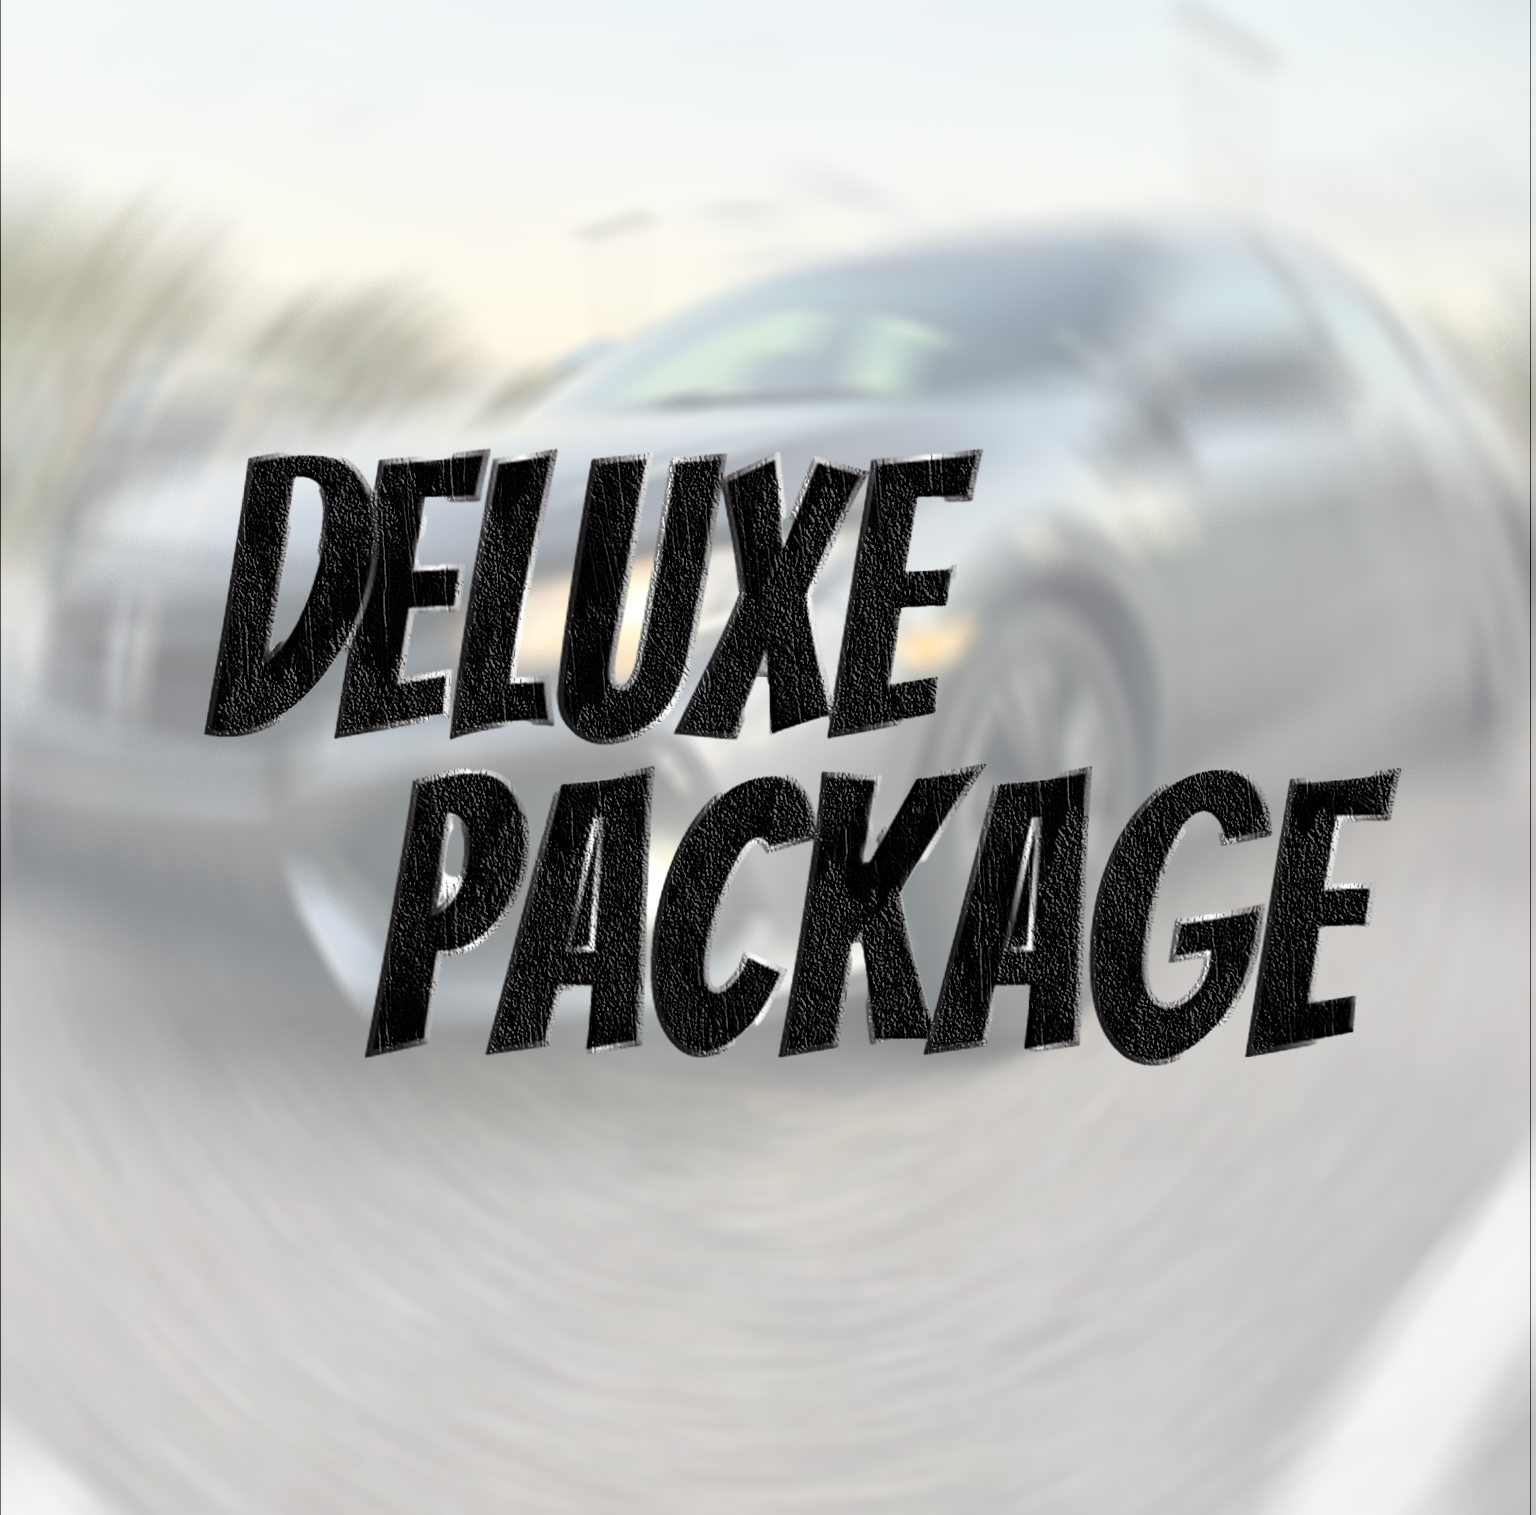
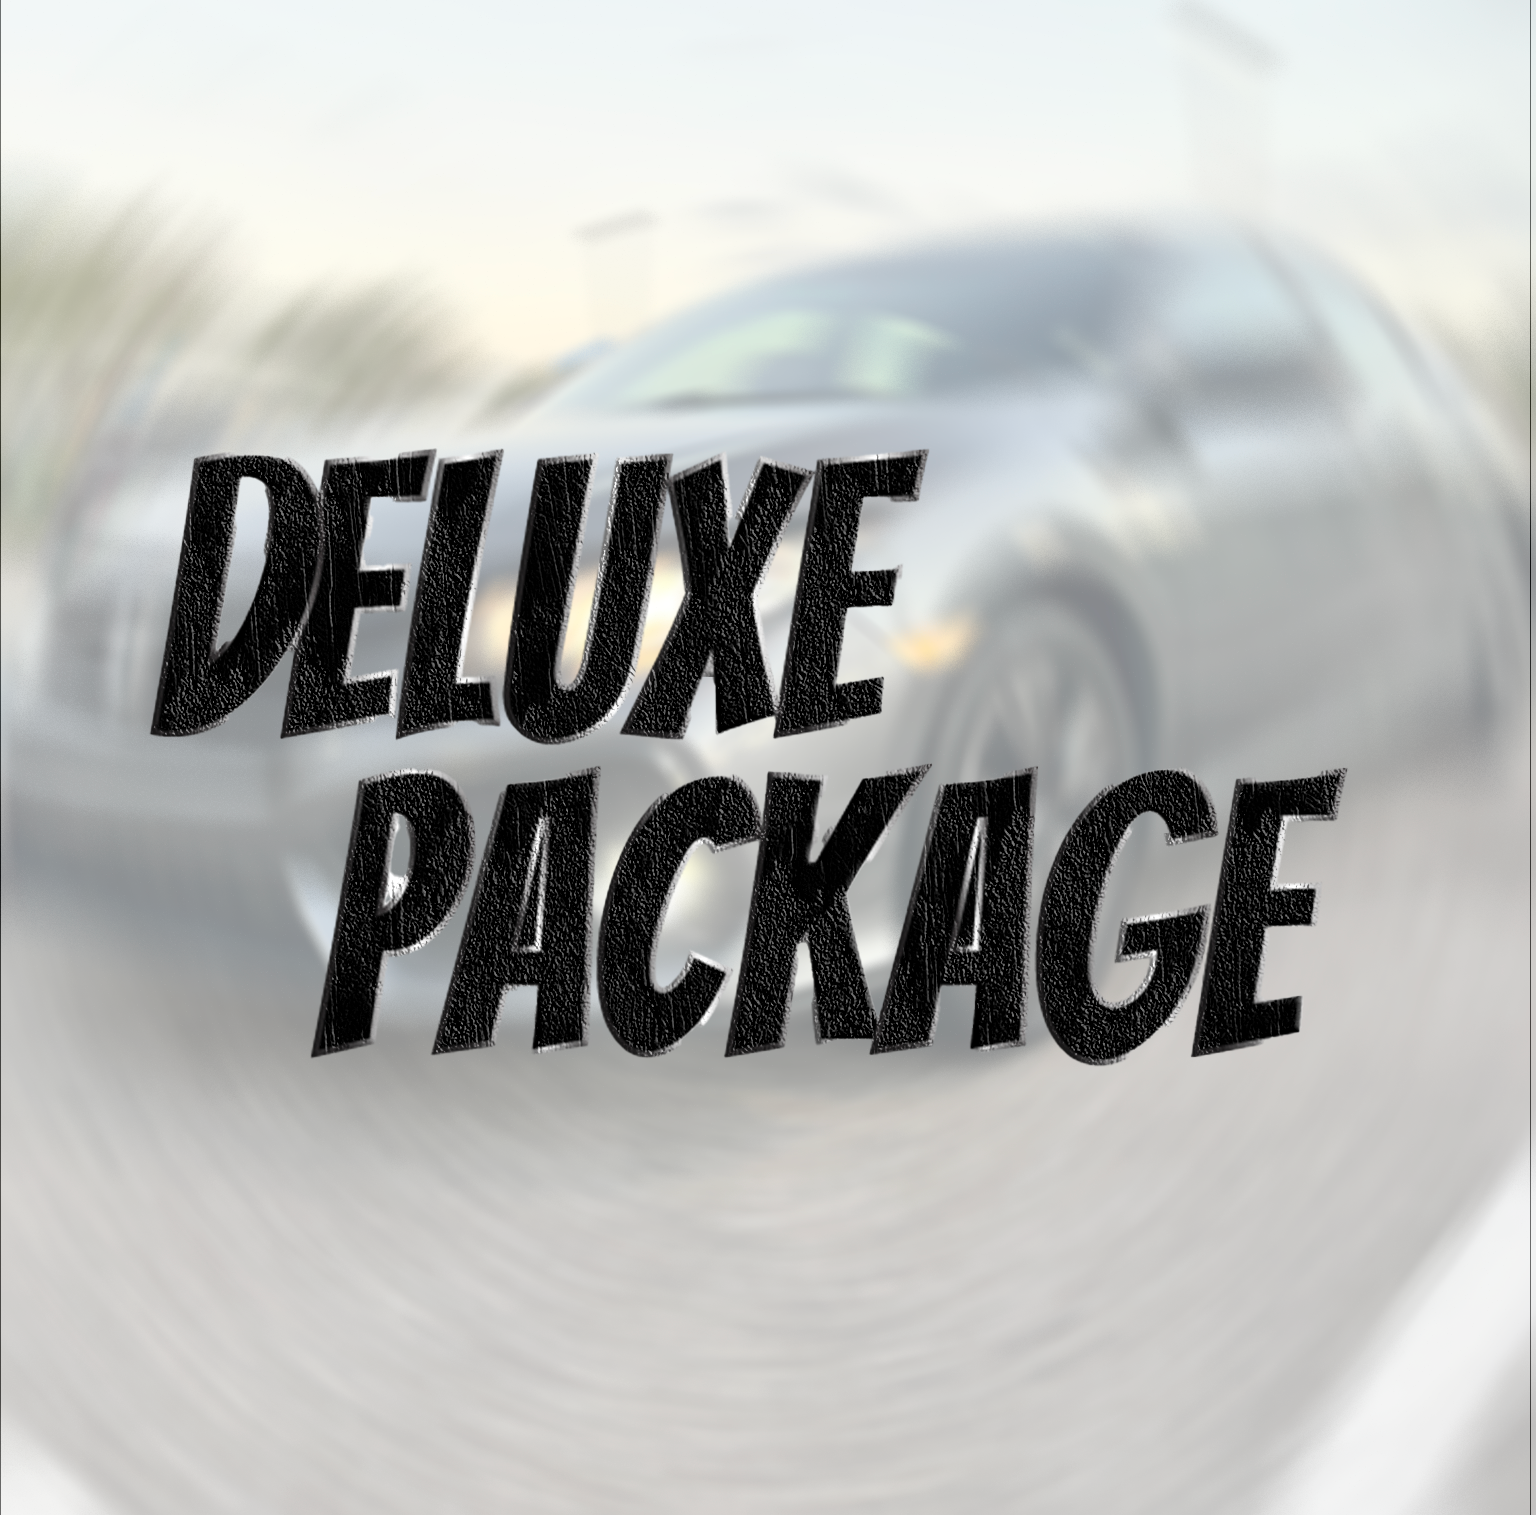
final changes

Changed region(s): [[0.0938, 0.2792, 0.9062, 0.7135]]

diff --git a/packages.html b/packages.html
@@ -52,7 +52,7 @@
         <div class="block" onclick="flipCard(this)">
             <div class="card">
                 <div class="card-front">
-                    <img src="files/Tireshine.JPEG" alt="Service 2">
+                    <img src="files/deluxepackready.png" alt="Service 2">
                     <p>Deluxe Package - ideal for regular care</p>
                     <p2>$100</p2>
                 </div>
@@ -70,7 +70,7 @@
         <div class="block" onclick="flipCard(this)">
             <div class="card">
                 <div class="card-front">
-                    <img src="files/Foam.JPEG" alt="Service 3">
+                    <img src="files/ultimatepackfinish.png" alt="Service 3">
                     <p> Ultimate Package – Full Detailing Inside & Out</p>
                     <p2>$150</p2>   
                 </div>

diff --git a/packsstyles.css b/packsstyles.css
@@ -145,9 +145,9 @@ html, body {
 
 /* Equal Sized Cards */
 .card {
-    width: 300%; /* Full width to make them equal */
-    max-width: 580px; /* Ensure they don't get too wide */
-    height: 700px; /* Set a fixed height to make them equal */
+    width: 310%; /* Full width to make them equal */
+    max-width: 590px; /* Ensure they don't get too wide */
+    height: 710px; /* Set a fixed height to make them equal */
     perspective: 1000px;
     position: relative;
     transform-style: preserve-3d;
@@ -184,7 +184,7 @@ html, body {
 .card-front img {
     width: 100%;
     height: 78%; /* Adjusted for equal card sizes */
-    object-fit: cover;
+    object-fit: fill;
     border-radius: 12px 12px 0 0;
 }
 

diff --git a/Style.css b/Style.css
@@ -111,8 +111,8 @@ html, body {
 
 /* Bigger Card */
 .card {
-    width: 100%;
-    max-width: 360px; /* Increased width */
+    width: 110%;
+    max-width: 380px; /* Increased width */
     height: 420px; /* Increased height */
     perspective: 1000px;
     position: relative;
